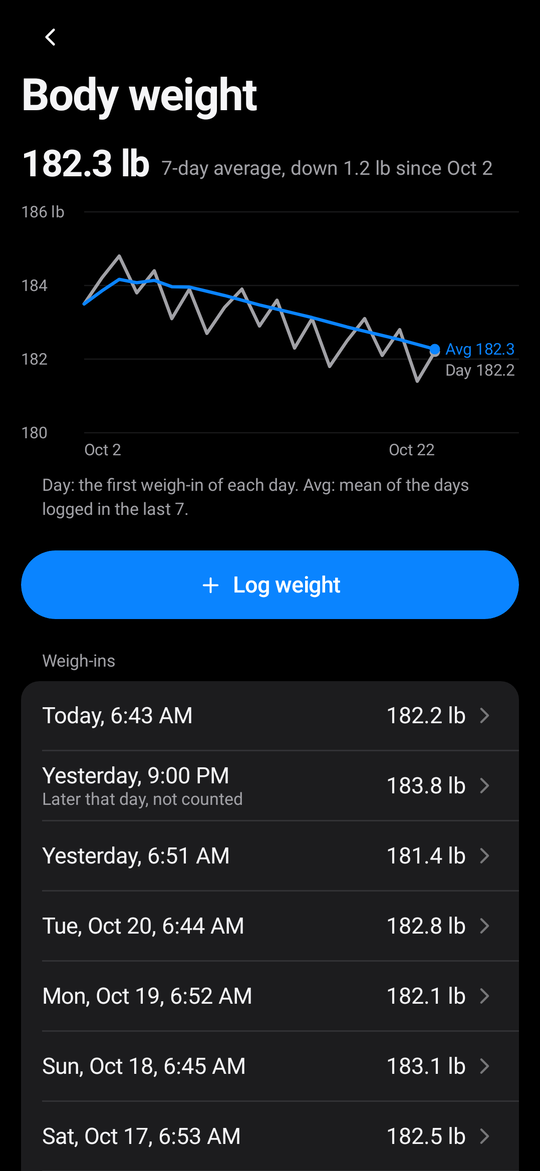
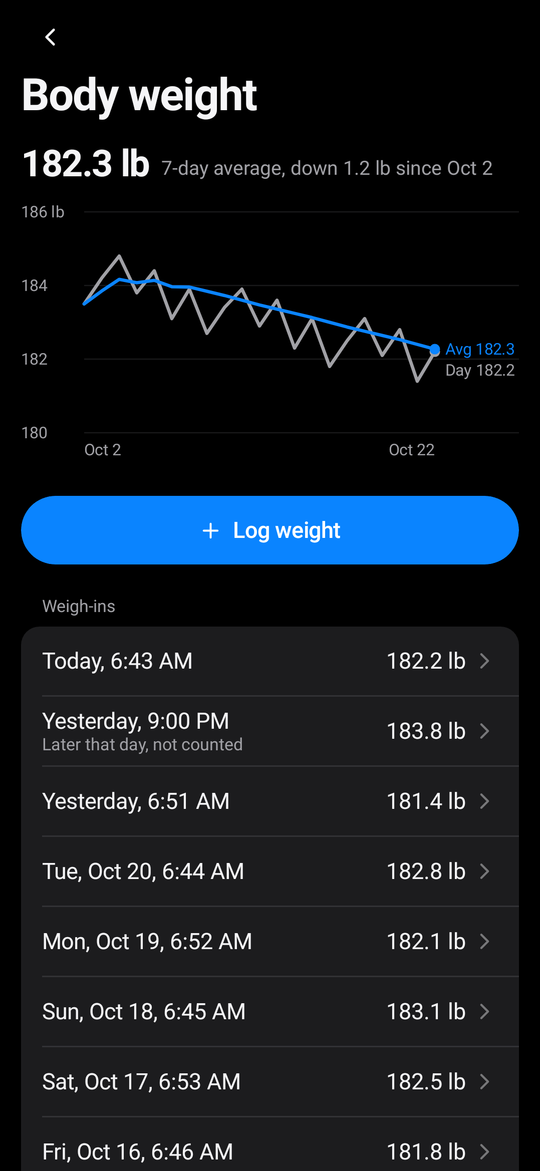
Cut low-value UI copy across the app
Delete explanatory footers, empty-state captions and sheet subtitles
that repeat what the screen already shows; shorten the ones that carry
a fact the user needs. Errors, data-loss warnings, actionable prompts
and content descriptions stay. README screenshots for body weight,
exercise detail, settings and the swap sheet are re-recorded.

diff --git a/app/src/main/java/dev/gzclp/tracker/ui/Settings.kt b/app/src/main/java/dev/gzclp/tracker/ui/Settings.kt
@@ -72,7 +72,7 @@ fun SettingsScreen(
                     Icon(Icons.chevronRight, p.fg3, 20.dp)
                 }
             }
-            GroupFooter("Switching keeps your history. Each exercise keeps its own progress.")
+            GroupFooter("Switching keeps your history.")
 
             GroupHeader("Cycle steps")
             Group {
@@ -90,7 +90,7 @@ fun SettingsScreen(
                     }
                 }
             }
-            GroupFooter("Cycle programs add a step each week: 3×12, then 3×10, then 3×8. Lower body covers squat, deadlift, Romanian deadlift, and leg press; everything else uses the upper body step. After a heavy week with every set at 8 or more, the next cycle starts higher by the next-cycle amount.")
+            GroupFooter("Lower body is squat, deadlift, Romanian deadlift, and leg press. Next cycle applies after a heavy week with every set at 8 or more.")
         }
 
         GroupHeader("Bar and plates")
@@ -112,7 +112,6 @@ fun SettingsScreen(
                 }
             }
         }
-        GroupFooter("Barbell lifts round each target to the nearest weight this bar and these plates make, and every set shows the plates for one side.")
 
         GroupHeader("Theme")
         Group {
@@ -130,7 +129,7 @@ fun SettingsScreen(
                 if (themeId == LaptopTheme.ID) Icon(Icons.check, p.accent, 20.dp)
             }
         }
-        GroupFooter("Laptop follows the Omarchy theme your laptop syncs to this folder, updated each time you open the app.")
+        GroupFooter("Laptop uses the Omarchy theme your laptop syncs to the sync folder.")
 
         GroupHeader("Rest timer")
         Group {
@@ -152,7 +151,7 @@ fun SettingsScreen(
                 Toggle(warmups, "T1 warm-up sets", onWarmups)
             }
         }
-        GroupFooter("Before each GZCLP T1 lift: 40%×5, 60%×5, and 80%×3 of the first working set, rounded to 5 lb. They are not logged and never count toward progression.")
+        GroupFooter("40%×5, 60%×5, and 80%×3 before each GZCLP T1 lift. Not logged.")
 
         GroupHeader("Weigh-in")
         Group {
@@ -167,13 +166,7 @@ fun SettingsScreen(
                 MiniStep(Icons.plus, "Later reminder") { onWeighInTime((weighInMinutes + 15) % (24 * 60)) }
             }
         }
-        GroupFooter(
-            when {
-                !weighInReminder -> "Turn on for a daily nudge to log your weight."
-                !notificationsAllowed -> "Allow notifications below to get the reminder."
-                else -> "Skipped on days you have already weighed in."
-            },
-        )
+        if (weighInReminder && !notificationsAllowed) GroupFooter("Allow notifications below to get the reminder.")
 
         GroupHeader("Health Connect")
         Group {
@@ -182,10 +175,7 @@ fun SettingsScreen(
                 Toggle(health.on, "Write workouts and weight to Health Connect", onHealthConnect)
             }
         }
-        GroupFooter(
-            health.message ?: if (health.on) "Each finished workout and weigh-in goes to Health Connect from now on. Nothing is read back."
-            else "Off. Turn on to send finished workouts and weigh-ins to Health Connect.",
-        )
+        health.message?.let { GroupFooter(it) }
 
         GroupHeader("Sync folder")
         Group {
@@ -201,7 +191,7 @@ fun SettingsScreen(
         }
         GroupFooter(
             when {
-                sync.folder == null -> "The log stays on this phone until you choose a folder for Syncthing."
+                sync.folder == null -> "Not syncing. The log stays on this phone."
                 sync.error != null -> "Last sync failed: ${sync.error}. Logging continues on this phone."
                 sync.lastSync != null -> "Last synced ${sync.lastSync}"
                 else -> "Not synced yet"
@@ -215,7 +205,7 @@ fun SettingsScreen(
                     Txt("Allow notifications", Type.body, color = p.accent)
                 }
             }
-            GroupFooter("Rest-over alerts and the weigh-in reminder need notifications to reach you with the screen off.")
+            GroupFooter("Needed for rest alerts and the weigh-in reminder.")
         }
     }
 }
@@ -229,8 +219,7 @@ fun DaysScreen(state: AppState, onBack: () -> Unit, onAdd: (ProgramDay) -> Unit,
         Txt(program.name, Type.largeTitle)
         Spacer(Modifier.height(Space.xs))
         Txt(
-            if (program.gzclp) "T3 lifts per workout, 3×15+. Weight goes up 5 lb when the last set reaches 25."
-            else "Exercises per workout. Each one runs the 3-week cycle.",
+            if (program.gzclp) "T3 lifts per workout" else "Exercises per workout",
             Type.subhead, color = p.fg2,
         )
         program.days.forEach { day ->
@@ -243,7 +232,7 @@ fun DaysScreen(state: AppState, onBack: () -> Unit, onAdd: (ProgramDay) -> Unit,
                     GroupRow(first = i == 0) {
                         Column(Modifier.weight(1f)) {
                             Txt(ex.name, Type.body, maxLines = 1)
-                            Txt(ex.weight?.let(Fmt::lb) ?: "Starting weight asked at the workout", Type.footnote.tabular(), color = p.fg2)
+                            Txt(ex.weight?.let(Fmt::lb) ?: "No weight yet", Type.footnote.tabular(), color = p.fg2)
                         }
                         IconButton(Icons.x, "Remove ${ex.name}", { onRemove(day, id) }, tint = p.fg2)
                     }

diff --git a/app/src/main/java/dev/gzclp/tracker/ui/Exercises.kt b/app/src/main/java/dev/gzclp/tracker/ui/Exercises.kt
@@ -61,7 +61,6 @@ fun ExercisesScreen(state: AppState, onOpen: (String) -> Unit, onBodyWeight: () 
         if (logs.isEmpty()) {
             Spacer(Modifier.height(Space.xxl))
             Txt("No exercises yet", Type.headline)
-            Txt("Every exercise you log shows up here with its weight over time.", Type.subhead, Modifier.padding(vertical = Space.xs), p.fg2)
             return@ScreenFrame
         }
         GroupHeader("Lifts")
@@ -123,7 +122,6 @@ fun ExerciseScreen(state: AppState, log: ExerciseLog, onBack: () -> Unit, onLogW
                 listOf(bests.map { Pt(it.at, it.e1rm.toFloat()) } to p.fg2, bests.map { Pt(it.at, it.topWeight.toFloat()) } to p.accent),
                 listOf("1RM", "Top"),
             )
-            GroupFooter("Top: heaviest set each workout. 1RM: best Epley estimate, weight × (1 + reps / 30).")
         }
 
         val now = buildList {
@@ -162,11 +160,8 @@ private fun RelativeStrength(state: AppState, bests: List<SessionBest>, onLogWei
     Spacer(Modifier.height(Space.lg))
     if (rs.isEmpty()) {
         Txt("No body weight yet", Type.headline)
-        Txt(
-            if (daily.isEmpty()) "Log a weigh-in to see this lift as a multiple of your body weight."
-            else "Every workout of this lift came before your first weigh-in on ${Fmt.shortDate(state.weighIns().first().at)}.",
-            Type.subhead, Modifier.padding(top = Space.xs, bottom = Space.lg), p.fg2,
-        )
+        if (daily.isNotEmpty()) Txt("All before your first weigh-in on ${Fmt.shortDate(state.weighIns().first().at)}", Type.subhead, Modifier.padding(top = Space.xs), p.fg2)
+        Spacer(Modifier.height(Space.lg))
         PillButton("Log weight", onLogWeight, Modifier.fillMaxWidth(), primary = true, icon = Icons.plus)
         return
     }
@@ -188,9 +183,9 @@ private fun RelativeStrength(state: AppState, bests: List<SessionBest>, onLogWei
     }
     Spacer(Modifier.height(Space.md))
     LineChart(listOf(rs.map { Pt(it.at, it.ratio.toFloat()) } to p.accent), listOf(""), unit = "×", minSpan = 0.3f, value = { Fmt.ratio(it.toDouble()) })
-    GroupFooter("Estimated 1RM ${Fmt.lb(last.e1rm)} at ${Fmt.lb(last.bodyWeight)} body weight. Each workout uses the latest weigh-in on or before its day.")
+    GroupFooter("Estimated 1RM ${Fmt.lb(last.e1rm)} at ${Fmt.lb(last.bodyWeight)} body weight")
     val left = bests.size - rs.size
-    if (left > 0) GroupFooter("$left earlier ${if (left == 1) "workout is" else "workouts are"} left out: before your first weigh-in.")
+    if (left > 0) GroupFooter("$left earlier ${if (left == 1) "workout" else "workouts"} before your first weigh-in")
 }
 
 /** An accent "+ label" row at the end of a group. */
@@ -215,10 +210,7 @@ fun BodyWeightScreen(state: AppState, today: LocalDate, onBack: () -> Unit, onLo
         if (entries.isEmpty()) {
             Spacer(Modifier.height(Space.lg))
             Txt("No weigh-ins yet", Type.headline)
-            Txt(
-                "Weigh in each morning before breakfast. Each lift can then show its estimated 1RM as a multiple of your body weight.",
-                Type.subhead, Modifier.padding(top = Space.xs, bottom = Space.lg), p.fg2,
-            )
+            Spacer(Modifier.height(Space.lg))
             PillButton("Log weight", onLog, Modifier.fillMaxWidth(), primary = true, icon = Icons.plus)
             return@ScreenFrame
         }
@@ -250,7 +242,6 @@ fun BodyWeightScreen(state: AppState, today: LocalDate, onBack: () -> Unit, onLo
             ),
             listOf("Day", "Avg"), minSpan = 6f, value = { Fmt.tenths(it.toDouble()) },
         )
-        GroupFooter("Day: the first weigh-in of each day. Avg: mean of the days logged in the last 7.")
         Spacer(Modifier.height(Space.xxl))
         PillButton("Log weight", onLog, Modifier.fillMaxWidth(), primary = true, icon = Icons.plus)
 

diff --git a/app/src/main/java/dev/gzclp/tracker/ui/Sheets.kt b/app/src/main/java/dev/gzclp/tracker/ui/Sheets.kt
@@ -106,8 +106,8 @@ private fun CancelOr(action: String, onCancel: () -> Unit, onAction: () -> Unit)
 fun ColumnScope.SheetContent(s: SheetState, state: AppState, update: (SheetState) -> Unit, onDismiss: () -> Unit, onConfirm: (SheetState) -> Unit, onPickTime: (SheetState.AddMeal) -> Unit = {}) {
     when (s) {
         is SheetState.Weight -> {
-            if (s.starting) SheetTitle("Starting weight for ${s.ex.name.lowercase()}", "${s.ex.detail()}. Pick a weight you can lift for every rep.")
-            else SheetTitle("${s.ex.name} weight", "${s.ex.detail()} · saved as a manual edit")
+            if (s.starting) SheetTitle("Starting weight for ${s.ex.name.lowercase()}", s.ex.detail())
+            else SheetTitle("${s.ex.name} weight", s.ex.detail())
             Stepper(s.weight.toString(), { update(s.copy(weight = (s.weight - 5).coerceAtLeast(0))) }, { update(s.copy(weight = s.weight + 5)) }, unit = "lb")
             PillButton(
                 if (s.starting) "Save and continue" else "Save ${Fmt.lb(s.weight)}", { onConfirm(s) }, Modifier.fillMaxWidth(),
@@ -168,7 +168,7 @@ fun ColumnScope.SheetContent(s: SheetState, state: AppState, update: (SheetState
             CancelOr("Delete", { update(s.copy(delete = false)) }) { onConfirm(s) }
         }
         is SheetState.AddMeal -> {
-            SheetTitle("Add meal", s.note ?: "At the time the photo was taken. Change it if you ate at another time.")
+            SheetTitle("Add meal", s.note)
             AddMealSheet(s, { onPickTime(s) }, update) { onConfirm(s) }
         }
         is SheetState.AddExercise -> {
@@ -181,11 +181,11 @@ fun ColumnScope.SheetContent(s: SheetState, state: AppState, update: (SheetState
         }
         is SheetState.Swap -> if (s.create) {
             val q = s.name.trim()
-            SheetTitle("Create \"$q\"?", "No exercise is named $q yet. This adds it as a new exercise and swaps it in for this workout.")
+            SheetTitle("Create \"$q\"?", "Adds it as a new exercise and swaps it in for this workout.")
             CancelOr("Create", { update(s.copy(create = false)) }) { onConfirm(s) }
         } else {
             val original = state.name(s.ex.swappedFrom ?: s.ex.id)
-            SheetTitle("Swap ${s.ex.name.lowercase()}", "For this workout only. $original keeps its weight and stage, and comes back next time.")
+            SheetTitle("Swap ${s.ex.name.lowercase()}", "For this workout only")
             NameField(s.name) { update(s.copy(name = it)) }
             val q = s.name.trim()
             val back = if (s.ex.swappedFrom != null && q.isEmpty()) listOf("Back to $original" to original) else emptyList()

diff --git a/app/src/main/java/dev/gzclp/tracker/ui/Screens.kt b/app/src/main/java/dev/gzclp/tracker/ui/Screens.kt
@@ -120,7 +120,7 @@ fun SetupScreen(onStart: (Map<Lift, Int>, String) -> Unit, onRestore: () -> Unit
         Txt("Starting weights", Type.largeTitle)
         Spacer(Modifier.height(Space.sm))
         Txt(
-            "Enter a recent 5-rep max for each lift. GZCLP starts T1 at 85% of it and T2 at 65%. The cycle programs start week 1 at 65%. All rounded to 5 lb.",
+            "Enter a recent 5-rep max for each lift.",
             Type.body, color = p.fg2,
         )
         Spacer(Modifier.height(Space.xxl))
@@ -147,7 +147,7 @@ fun SetupScreen(onStart: (Map<Lift, Int>, String) -> Unit, onRestore: () -> Unit
         if (message != null) GroupFooter(message, color = p.red)
         GroupHeader("Program")
         ProgramPicker(program) { program = it }
-        GroupFooter("You can switch programs any time in Settings. History and each exercise's progress carry over.")
+        GroupFooter("Switch any time in Settings.")
     }
 }
 

diff --git a/app/src/main/java/dev/gzclp/tracker/ui/Food.kt b/app/src/main/java/dev/gzclp/tracker/ui/Food.kt
@@ -50,7 +50,6 @@ fun FoodScreen(meals: List<Meal>, day: LocalDate, today: LocalDate, error: Strin
         if (shown.isEmpty()) {
             Spacer(Modifier.height(Space.xxl))
             Txt(if (day == today) "No meals yet today" else "No meals logged", Type.headline)
-            Txt("Each meal is saved at the time its photo was taken.", Type.subhead, Modifier.padding(vertical = Space.xs), p.fg2)
             return@ScreenFrame
         }
         GroupHeader("${shown.size} ${if (shown.size == 1) "meal" else "meals"}")

diff --git a/app/src/main/java/dev/gzclp/tracker/ui/History.kt b/app/src/main/java/dev/gzclp/tracker/ui/History.kt
@@ -52,7 +52,6 @@ fun HistoryScreen(state: AppState, onOpen: (String) -> Unit) {
         if (done.isEmpty()) {
             Spacer(Modifier.height(Space.xxl))
             Txt("No workouts yet", Type.headline)
-            Txt("Finished workouts show up here with every set you logged.", Type.subhead, Modifier.padding(vertical = Space.xs), p.fg2)
             return@ScreenFrame
         }
         val recent = done.takeLast(16)
